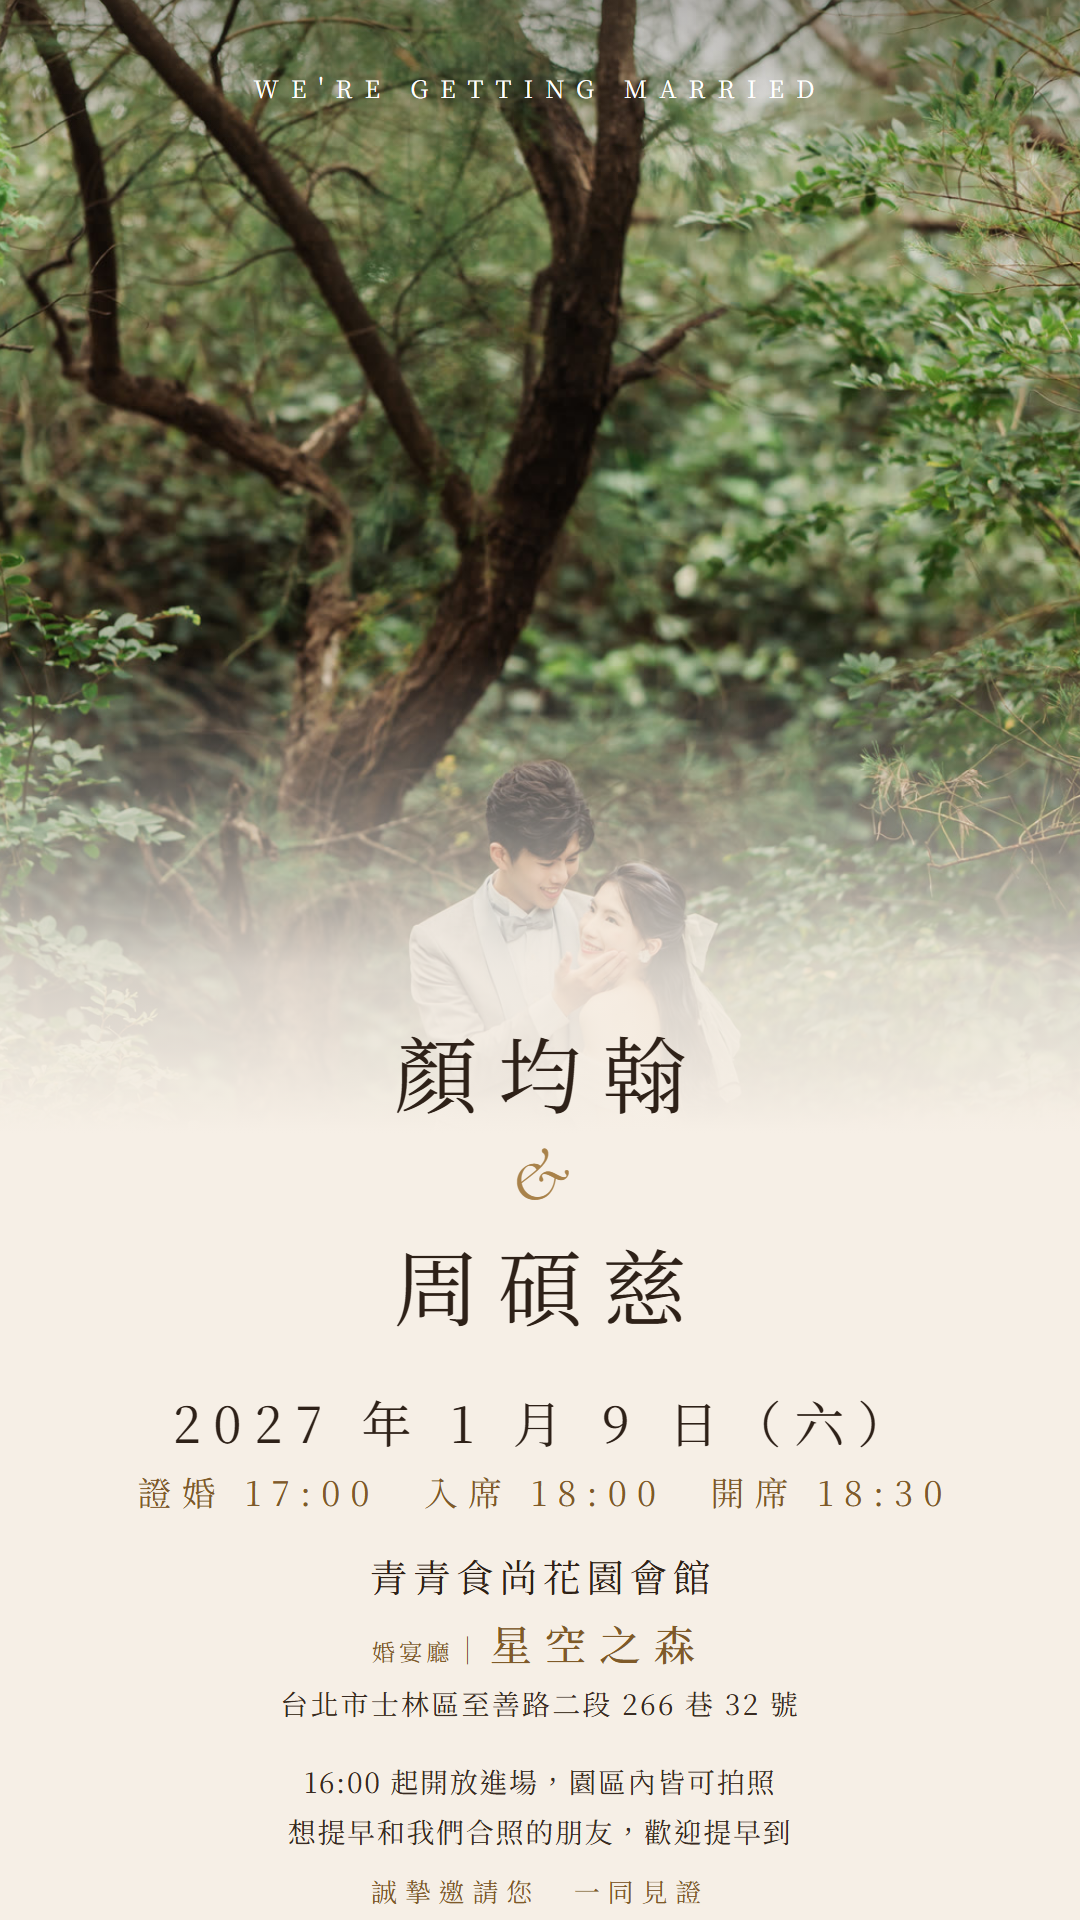
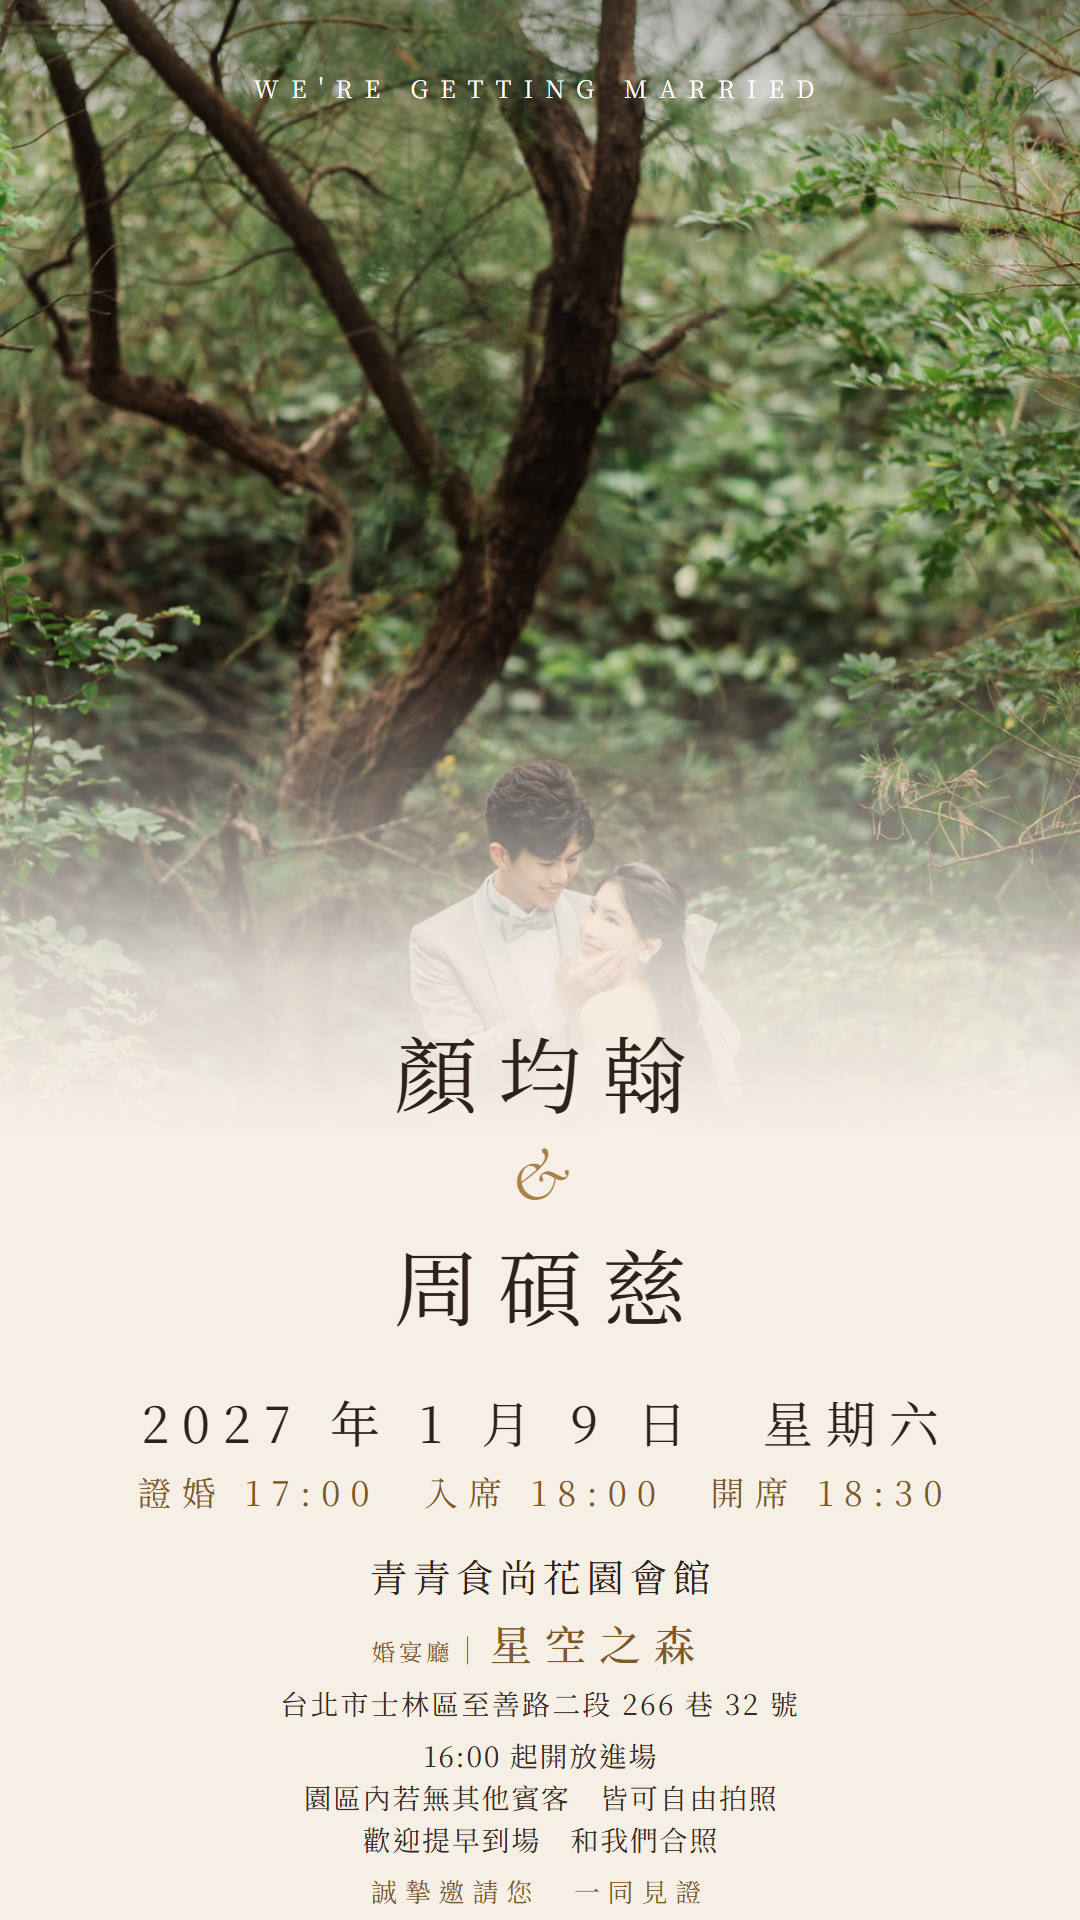
Remove trailing punctuation from centered lines and optically center letter-spaced text; sync invite image copy

diff --git a/index.html b/index.html
@@ -48,14 +48,16 @@ body{background:var(--bg);color:var(--ink);font-family:var(--serif);font-weight:
 @keyframes bob{0%,100%{transform:translateY(0) rotate(45deg);opacity:.5}50%{transform:translateY(7px) rotate(45deg);opacity:1}}
 
 section{padding:68px 28px;text-align:center}
-.eyebrow{font-size:13px;letter-spacing:.42em;color:var(--gold-d);margin-bottom:14px}
+.eyebrow{font-size:13px;letter-spacing:.42em;padding-left:.42em;color:var(--gold-d);margin-bottom:14px}
 h2{font-size:30px;font-family:var(--script);font-style:italic;font-weight:400;letter-spacing:.02em;line-height:1.25;margin-bottom:22px}
 p{font-size:16px;letter-spacing:.06em}
 .rule{width:44px;height:1px;background:var(--gold);margin:26px auto;opacity:.7}
 
 /* greeting */
-.greet{font-size:17px;letter-spacing:.14em;margin-bottom:22px}
+.greet{font-size:17px;letter-spacing:.14em;padding-left:.14em;margin-bottom:22px}
 .story p+p{margin-top:14px}
+.story .nw{white-space:nowrap}
+.story p{padding-left:.06em}
 .hl{color:var(--gold-d)}
 
 /* details */
@@ -161,6 +163,7 @@ footer{padding:70px 24px 90px;text-align:center}
 footer .script{font-size:30px}
 footer p{margin-top:10px;font-size:14px;letter-spacing:.3em;color:var(--gold-d)}
 @media (min-width:700px){.wrap{box-shadow:0 0 60px rgba(46,33,24,.12)} body{background:#e9dfd1}}
+@media (max-width:340px){.row .v{font-size:16.5px;letter-spacing:.05em}}
 @media (prefers-reduced-motion:reduce){.hero img,.hero .scroll .arr{animation:none}.reveal{opacity:1;transform:none;transition:none}}
 </style>
 </head>
@@ -182,29 +185,29 @@ footer p{margin-top:10px;font-size:14px;letter-spacing:.3em;color:var(--gold-d)}
 <section class="story reveal">
   <div class="eyebrow">INVITATION</div>
   <div class="greet" id="greet">親愛的您</div>
-  <p>我們的故事，<br><span class="nw">在 <span class="hl">2021 年 1 月 9 日</span>悄悄起筆。</span></p>
-  <p>六年後的同一天，</p>
-  <p>想邀請您一起見證，</p>
-  <p>我們翻開新的一頁。</p>
+  <p>我們的故事<br><span class="nw">在 <span class="hl">2021 年 1 月 9 日</span>悄悄起筆</span></p>
+  <p>六年後的同一天</p>
+  <p>想邀請您一起見證</p>
+  <p>我們翻開新的一頁</p>
 </section>
 
 <section class="reveal" id="details">
   <div class="eyebrow">DETAILS</div>
   <h2>The Day</h2>
   <div class="card">
-    <div class="row"><div class="k">日期</div><div class="v">2027 年 1 月 9 日（六）</div></div>
+    <div class="row"><div class="k">日期</div><div class="v">2027 年 1 月 9 日　星期六</div></div>
     <div class="row"><div class="k">時間</div><div class="v">證婚儀式　17:00</div><div class="v" style="margin-top:2px">晚宴入席　18:00</div><div class="v" style="margin-top:2px">晚宴開席　18:30</div></div>
-    <div class="row"><div class="k">開放進場</div><div class="v">16:00 起</div><div class="s" style="margin-top:6px;line-height:1.8">園區內若無其他賓客，<br>皆可自由拍照。<br>歡迎提早到場，<br>和我們合照。</div></div>
+    <div class="row"><div class="k">開放進場</div><div class="v">16:00 起</div><div class="s" style="margin-top:6px;line-height:1.8">園區內若無其他賓客<br>皆可自由拍照<br>歡迎提早到場<br>和我們合照</div></div>
     <div class="row"><div class="k">地點</div><div class="v">青青食尚花園會館</div><div class="hall"><small>婚宴廳</small>｜<b>星空之森</b></div></div>
     <div class="row"><div class="k">地址</div><div class="v" style="font-size:15px;letter-spacing:.05em;text-wrap:balance">台北市士林區至善路二段 266 巷 32 號</div></div>
-    <div class="row"><div class="k">保暖提醒</div><div class="v">半戶外會場　備有暖爐</div><div class="s" style="margin-top:6px;line-height:1.8">當天正值冬季，<br>現場雖會提供暖爐，<br>仍請大家做好保暖。</div></div>
+    <div class="row"><div class="k">保暖提醒</div><div class="v">半戶外會場　備有暖爐</div><div class="s" style="margin-top:6px;line-height:1.8">當天正值冬季<br>現場雖會提供暖爐<br>仍請大家做好保暖</div></div>
   </div>
   <div class="btns">
     <a class="btn fill" target="_blank" rel="noopener" href="https://www.google.com/maps/search/?api=1&query=%E5%A3%AB%E6%9E%97%E9%9D%92%E9%9D%92%E9%A3%9F%E5%B0%9A%E8%8A%B1%E5%9C%92%E6%9C%83%E9%A4%A8">開啟地圖</a>
     <a class="btn" href="#shuttle">接駁專車</a>
     <a class="btn" id="calBtn" href="wedding.ics">加入行事曆</a>
   
-    <p class="calhelp" id="calHelp">行事曆按了沒反應？<br>改用
+    <p class="calhelp" id="calHelp">行事曆按了沒反應<br>改用
       <a href="wedding.ics">iPhone 日曆</a>｜<a target="_blank" rel="noopener" id="calGoogle" href="https://calendar.google.com/calendar/render?action=TEMPLATE&text=%E9%A1%8F%E5%9D%87%E7%BF%B0%20%EF%BC%86%20%E5%91%A8%E7%A2%A9%E6%85%88%20%E5%A9%9A%E7%A6%AE%EF%BC%8817%3A00%20%E8%AD%89%E5%A9%9A%E5%84%80%E5%BC%8F%EF%BC%8F18%3A00%20%E5%85%A5%E5%B8%AD%EF%BC%8F18%3A30%20%E9%96%8B%E5%B8%AD%EF%BC%89&dates=20270109T090000Z%2F20270109T133000Z&details=16%3A00%20%E8%B5%B7%E9%96%8B%E6%94%BE%E9%80%B2%E5%A0%B4%EF%BC%88%E5%9C%92%E5%8D%80%E7%84%A1%E5%85%B6%E4%BB%96%E8%B3%93%E5%AE%A2%E6%99%82%E7%9A%86%E5%8F%AF%E6%8B%8D%E7%85%A7%EF%BC%89%E3%80%8217%3A00%20%E8%AD%89%E5%A9%9A%E5%84%80%E5%BC%8F%EF%BC%8C18%3A00%20%E6%99%9A%E5%AE%B4%E5%85%A5%E5%B8%AD%EF%BC%8C18%3A30%20%E6%99%9A%E5%AE%B4%E9%96%8B%E5%B8%AD%E3%80%82%E5%B7%B7%E5%8F%A3%E5%85%A9%E5%81%B4%E6%98%AF%207-11%20%E8%88%87%E5%85%A8%E5%AE%B6%EF%BC%8C%E8%AB%8B%E7%94%B1%E6%AD%A4%E8%BD%89%E9%80%B2%E5%B0%8F%E5%B7%B7%EF%BC%88%E8%87%B3%E5%96%84%E8%B7%AF%20266%20%E5%B7%B7%EF%BC%89%EF%BC%9B%E5%89%8D%E6%96%B9%E7%9A%84%E6%A9%8B%E4%B8%80%E6%AC%A1%E5%8F%AA%E8%83%BD%E9%81%8E%E4%B8%80%E5%8F%B0%E8%BB%8A%EF%BC%8C%E5%BE%9E%207-11%E3%80%81%E5%85%A8%E5%AE%B6%E8%B5%B7%E8%AB%8B%E4%BE%9D%E7%8F%BE%E5%A0%B4%E4%BA%BA%E5%93%A1%E6%8C%87%E6%8F%AE%E3%80%82&location=%E9%9D%92%E9%9D%92%E9%A3%9F%E5%B0%9A%E8%8A%B1%E5%9C%92%E6%9C%83%E9%A4%A8%20%E5%A9%9A%E5%AE%B4%E5%BB%B3%E3%80%8C%E6%98%9F%E7%A9%BA%E4%B9%8B%E6%A3%AE%E3%80%8D%EF%BC%88%E5%8F%B0%E5%8C%97%E5%B8%82%E5%A3%AB%E6%9E%97%E5%8D%80%E8%87%B3%E5%96%84%E8%B7%AF%E4%BA%8C%E6%AE%B5266%E5%B7%B732%E8%99%9F%EF%BC%89&ctz=Asia%2FTaipei">Google 日曆</a><br>
       <span id="calLine" style="display:none">您正在 LINE 裡開啟，若行事曆仍沒反應，請改用 <b>Safari</b> 或 <b>Chrome</b> 開啟這個網頁。</span></p>
     <div class="calpick" id="calPick" hidden>
@@ -226,9 +229,9 @@ footer p{margin-top:10px;font-size:14px;letter-spacing:.3em;color:var(--gold-d)}
 <section class="reveal" style="padding-top:8px;padding-bottom:36px">
   <div class="shuttle" id="shuttle">
     <div class="sh-t">接駁專車 <small>Shuttle Bus</small></div>
-    <p class="sh-lead">從「士林捷運站」搭專車到會館，<br>輕鬆又方便。</p>
+    <p class="sh-lead">從「士林捷運站」搭專車到會館<br>輕鬆又方便</p>
 
-    <div class="sh-label">發車時間（晚宴）</div>
+    <div class="sh-label">發車時間　晚宴</div>
     <div class="sh-times">
       <div class="rec"><i>證婚建議</i>16:45<em>約 17:00 抵達</em></div>
       <div class="rec"><i>晚宴建議</i>17:15<em>約 17:30 抵達</em></div>
@@ -277,7 +280,7 @@ footer p{margin-top:10px;font-size:14px;letter-spacing:.3em;color:var(--gold-d)}
   <div style="text-align:center">
     <div class="eyebrow">OTHER WAYS</div>
     <h2 style="font-family:var(--serif);font-style:normal;font-weight:400;letter-spacing:.3em;margin-left:.3em;font-size:28px">自行前往</h2>
-    <div class="alt-note">不搭接駁專車的賓客，請看這裡<br><a href="#shuttle">要搭接駁專車？請看上方「接駁專車」</a></div>
+    <div class="alt-note">不搭接駁專車的賓客，請看這裡<br><a href="#shuttle">要搭接駁專車？請看上方的接駁專車</a></div>
   </div>
 
 
@@ -347,7 +350,7 @@ footer p{margin-top:10px;font-size:14px;letter-spacing:.3em;color:var(--gold-d)}
 </section>
 
 <footer class="reveal">
-  <div class="script">With love,</div>
+  <div class="script">With love</div>
   <div style="font-size:20px;letter-spacing:.3em;margin-top:6px">均翰 ＆ 碩慈</div>
   <p>期待與您相見</p>
 </footer>

diff --git a/pass.html b/pass.html
@@ -77,7 +77,7 @@ body{background:#2E2118;color:var(--ink);font-family:var(--serif);font-weight:40
 
       <div class="rule"></div>
       <div class="when">
-        <div><div class="lab">日期</div><div class="big">2027.01.09<br>（六）</div></div>
+        <div><div class="lab">日期</div><div class="big">2027.01.09<br>星期六</div></div>
         <div><div class="lab">時間</div><div class="big">證婚 17:00<br>入席 18:00<br>開席 18:30</div></div>
       </div>
     </div>
@@ -95,11 +95,11 @@ body{background:#2E2118;color:var(--ink);font-family:var(--serif);font-weight:40
     </div>
 
     <div class="stub">
-      <div class="script">With love,</div>
+      <div class="script">With love</div>
       <p>均翰 ＆ 碩慈</p>
     </div>
   </div>
-  <div class="tip">請於上車時，<br>將此畫面出示給司機。</div>
+  <div class="tip">請於上車時<br>將此畫面出示給司機</div>
   <a class="back bottom" href="./" id="backBottom"><span>‹</span> 返回上一頁</a>
 </div>
 
